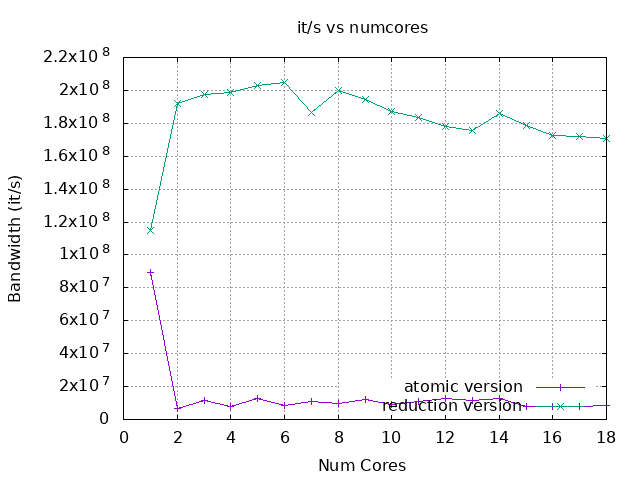
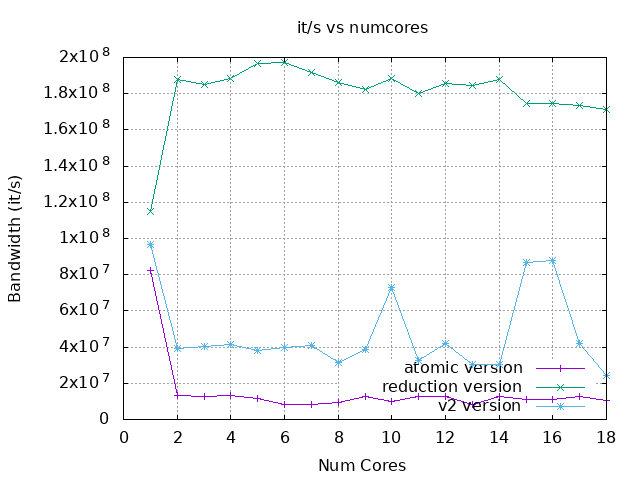
update may be problem with cppversion

diff --git a/ex09/src/histo_v1.cpp b/ex09/src/histo_v1.cpp
@@ -3,10 +3,9 @@
 #include <omp.h>
 #include <numeric>
 
-#define N 2e9
+#define N 2e7
 
 using Time = std::chrono::high_resolution_clock;
-using mintime = std::nano;
 
 int main(int argc, char const *argv[])
 {
@@ -16,26 +15,24 @@ int main(int argc, char const *argv[])
   int numthreads = 0;
 #pragma omp parallel
   {
+    #if _OPENMP
     numthreads = omp_get_num_threads();
+    #endif
 #pragma omp for
     for (int i = 0; i < 16; ++i)
       hist[i] = 0;
   }
 
   auto start = Time::now();
-#if atomicupdate
-#pragma omp parallel for
-#else
-#pragma omp parallel for reduction(+ : hist)
-#endif
+#pragma omp parallel for private(seed)
   for (long i = 0; i < N; ++i)
   {
-#if atomicupdate
 #pragma omp atomic
-#endif
-    ++hist[rand_r(&seed) & 0xf];
+    hist[rand_r(&seed) & 0xf]++;
   }
   auto end = Time::now();
+
+  //check for proper parallelization
   if (std::accumulate(hist, hist + 16, 0) != N)
   {
     std::cout << "your program failed" << std::endl;
@@ -45,9 +42,9 @@ int main(int argc, char const *argv[])
   {
     std::cout << "hist[" << i << "]=" << hist[i] << std::endl;
   }
-  double calctimesec = std::chrono::duration<double, mintime>(end - start).count() / mintime::den;
-
-  std::cout << numthreads << " " << static_cast<double>(N) / calctimesec << std::endl;
+  double calctimesec = std::chrono::duration<double>(end - start).count();
+  double milloniterpersec = static_cast<double>(N) / (calctimesec * 1e6);
+  std::cout << numthreads << " " << milloniterpersec << std::endl;
 
   return 0;
 }

diff --git a/ex09/src/histo_v2.cpp b/ex09/src/histo_v2.cpp
@@ -3,7 +3,7 @@
 #include <omp.h>
 #include <numeric>
 
-#define N 2e3
+#define N 2e9
 
 #define maxcores 18
 #define bins 16
@@ -21,21 +21,20 @@ int main(int argc, char const *argv[])
 #pragma omp parallel
   {
     numthreads = omp_get_num_threads();
-    if(numthreads == 0){
+    if (numthreads == 0)
+    {
       printf("hello");
     }
   }
 
   int tid = 0;
   auto start = Time::now();
-#pragma omp parallel for private(tid)
+  #pragma omp parallel for 
   for (long iter = 0; iter < N; ++iter)
   {
-    tid = omp_get_thread_num();
-    ++hist_temp[tid][rand_r(&seed) & bins];
+    hist_temp[omp_get_thread_num()][rand_r(&seed) & 0xf]++;
   }
   auto end = Time::now();
-  
 
   for (int bin = 0; bin < bins; ++bin)
   {
@@ -44,18 +43,19 @@ int main(int argc, char const *argv[])
       hist[bin] += hist_temp[core][bin];
     }
   }
-  
+
+// check for proper parallelization
   if (std::accumulate(hist, hist + bins, 0) != N)
   {
     std::cout << "your program failed" << std::endl;
-    //std::exit(1);
+    std::exit(1);
   }
-  
+
   for (int bin = 0; bin < 16; ++bin)
   {
     std::cout << "hist[" << bin << "]=" << hist[bin] << std::endl;
   }
-  
+
   double calctimesec = std::chrono::duration<double, mintime>(end - start).count() / mintime::den;
 
   std::cout << numthreads << " " << static_cast<double>(N) / calctimesec << std::endl;

diff --git a/ex09/src/histogpt.cpp b/ex09/src/histogpt.cpp
@@ -1,0 +1,55 @@
+#include <iostream>
+#include <omp.h>
+#include <numeric>
+#include <chrono>
+#include <cstdlib>
+
+#define N  2e7
+long hist[16];
+
+int main() {
+  // bogus parallel region
+  int numthreads = 0;
+#pragma omp parallel
+  {
+    #if _OPENMP
+    numthreads = omp_get_num_threads();
+    #endif
+#pragma omp for
+    for (int i = 0; i < 16; ++i)
+      hist[i] = 0;
+  }
+
+  // Start timing
+  auto start = std::chrono::high_resolution_clock::now();
+
+  // Parallel region
+  #pragma omp parallel
+  {
+    unsigned int seed = omp_get_thread_num();
+    #pragma omp for
+    for (long i = 0; i < N; ++i) {
+      #pragma omp atomic
+      hist[rand_r(&seed) & 0xf]++;
+    }
+  }
+
+  // End timing
+  auto end = std::chrono::high_resolution_clock::now();
+
+  // Check for proper parallelization
+  if (std::accumulate(hist, hist + 16, 0) != N) {
+    std::cout << "your program failed" << std::endl;
+    std::exit(1);
+  }
+
+  // Output results
+  for (int i = 0; i < 16; ++i) {
+    std::cout << "hist[" << i << "]=" << hist[i] << std::endl;
+  }
+  double calctimesec = std::chrono::duration<double>(end - start).count();
+  double milloniterpersec = static_cast<double>(N) / (calctimesec * 1e6);
+  std::cout << numthreads << " " << milloniterpersec << std::endl;
+
+  return 0;
+}

diff --git a/ex09/testcode.cpp b/ex09/testcode.cpp
@@ -1,13 +1,17 @@
+#include <iostream>
 #include <omp.h>
-#include <stdio.h>
 
-int main() {
+int main()
+{
     int i;
-
-    #pragma omp parallel for //private(i)
-    for (i = 0; i < 10; i++) {
-        printf("Thread %d: i = %d\n", omp_get_thread_num(), i);
+    long hist[10] = {0};
+    long hist2[5][2] = {0};
+#pragma omp parallel for
+    {
+        for (size_t i = 0; i < 10; i++)
+        {
+            printf("thread id is : %d index is : %zu\n",  omp_get_thread_num(), i);
+        }
     }
-
     return 0;
 }

diff --git a/ex09/src/histo_c.c b/ex09/src/histo_c.c
@@ -1,0 +1,31 @@
+#include <stdio.h>
+#include <stdlib.h>
+#include <math.h>
+#include "timing.h"
+
+int main() {
+  unsigned int seed = 1;
+  long hist[16], j, n;
+  int i;
+  double wcstart,wcend,ct;
+  n=2*pow(10,9);
+  for(i=0; i<16; ++i)
+    hist[i]=0;
+
+  wcstart = getTimeStamp();
+
+  for(j=0; j<n; ++j) {
+    hist[rand_r(&seed) & 0xf]++;
+  }
+
+  wcend = getTimeStamp();
+
+  for(i=0; i<16; ++i) {
+    printf("hist[%d]=%ld\n",i,hist[i]);
+  }
+
+  printf("Time: %lf sec\n",wcend-wcstart);
+
+  return 0;
+}
+
